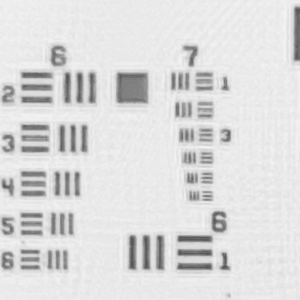
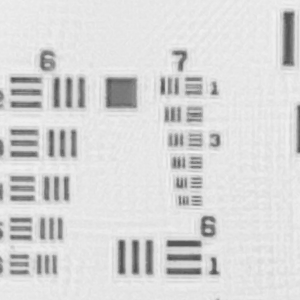
.

diff --git a/main.py b/main.py
@@ -25,7 +25,7 @@ grid_size = 5 # 1->16, recommend 4-8 for stability, time and performance balacnc
 img_size = 300 # 100-300 is sensible for square images (any bigger and reconstruction will be slow)
 preview_exposure = 30000 # In microseconds for preview
 brightfield_exposure = 50000  # In microseconds for brightfield
-fpm_exposure = 300000  # In microseconds for FPM
+fpm_exposure = 30000  # In microseconds for FPM
 
 # Set parameters for reconstruction algorithm
 options = {

diff --git a/fpm_functions.py b/fpm_functions.py
@@ -419,7 +419,7 @@ def reconstruct(images, kx, ky, obj, pupil, options, fig, axes):
         elif plot_mode == 3:
             plot_ipynb(fig,axes,obj,x_start,y_start,img_size,obj_center,pupil,kx,ky,i,iter,plot_mode,update_size) # Plotting for notebook
     
-    print('\n Reconstruction Done') # Write to new line
+    print('\n Reconstruction Done!') # Write to new line
 
     return IFT(obj),pupil,kx,ky
 
